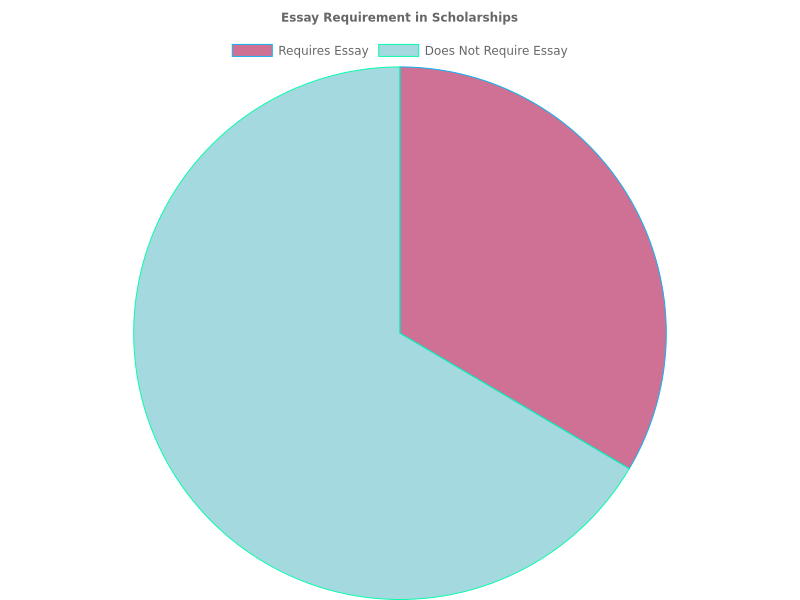
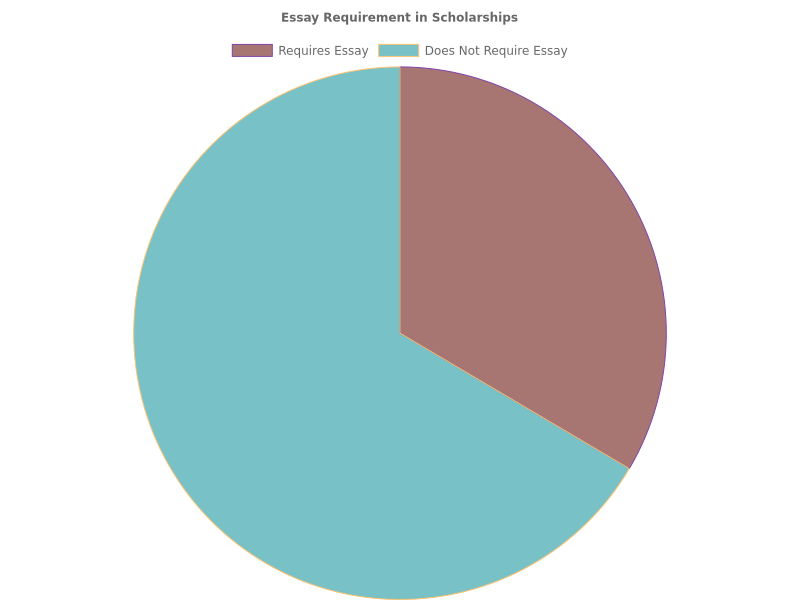
Sync

diff --git a/parseData.js b/parseData.js
@@ -15,11 +15,10 @@ const getRandomColors = require('./modules/getRandomColors');
     const letterRequiredPercentage = total > 0 ? ((letterRequiredCount / total) * 100).toFixed(2) : 0;
     const bothRequiredCount = scholarships.filter(s => s.requiresEssay && s.requiresLetter).length;
     const bothRequiredPercentage = total > 0 ? ((bothRequiredCount / total) * 100).toFixed(2) : 0;
-    console.log(`Percentage of scholarships that require a letter of recommendation: ${letterRequiredPercentage}%`);
-    console.log(`Percentage of scholarships that require both an essay and a letter of recommendation: ${bothRequiredPercentage}%`);
+    console.log(`Total number of scholarships: ${total}\n`);
 
     const categories = [
-      { type: 'Black', keywords: ['african american', 'black', 'minority', 'diversity'] },
+      { type: 'African Americans', keywords: ['african american', 'black', 'minority', 'diversity'] },
       { type: 'Women', keywords: ['women only', 'for women', 'female', 'women'] },
       { type: 'LGBT', keywords: ['lgbtqia', 'lgbtq+', 'lgbt', 'lgbtq'] },
       { type: 'Veterans', keywords: ['veteran', 'military', 'armed forces'] },
@@ -77,7 +76,7 @@ const getRandomColors = require('./modules/getRandomColors');
       };
     });
     output.forEach(category => {
-      console.log(`${category.type}: ${category.percentage}% of scholarships (${category.count} total), ${category.needBasedPercentage}% need-based`);
+      console.log(`For ${category.type}: ${category.percentage}% of scholarships (${category.count} total), ${category.needBasedPercentage}% need-based`);
     });
     console.log(`\nOverall Need-Based Scholarships: ${overallNeedBasedPercentage}% of all scholarships (${overallNeedBasedCount} out of ${total})`);
     const width = 800;
@@ -182,6 +181,40 @@ const getRandomColors = require('./modules/getRandomColors');
     } else {
       console.log('No valid scholarshipMaximumAward values to generate histogram.');
     }
+    const essayRequiredScholarships = scholarships.filter(s => s.requiresEssay);
+    const essayRequiredCount = essayRequiredScholarships.length;
+    const essayRequiredPercentage = total > 0 ? ((essayRequiredCount / total) * 100).toFixed(2) : 0;
+    const labelsEssay = ['Requires Essay', 'Does Not Require Essay'];
+    const backgroundColorsEssay = getRandomColors(labelsEssay.length, 0.6);
+    const borderColorsEssay = getRandomColors(labelsEssay.length, 1);
+    const configEssay = {
+      type: 'pie',
+      data: {
+        labels: labelsEssay,
+        datasets: [{
+          label: 'Essay Requirement',
+          data: [essayRequiredCount, total - essayRequiredCount],
+          backgroundColor: backgroundColorsEssay,
+          borderColor: borderColorsEssay,
+          borderWidth: 1
+        }]
+      },
+      options: {
+        plugins: {
+          title: { display: true, text: 'Essay Requirement in Scholarships' }
+        }
+      }
+    };
+    const imageBufferEssay = await chartJSNodeCanvas.renderToBuffer(configEssay);
+    fs.writeFileSync('./images/essay_requirement_pie_chart.png', imageBufferEssay);
+    const onlyEssayScholarships = scholarships.filter(s => s.requiresEssay && !s.requiresLetter);
+    const onlyEssayCount = onlyEssayScholarships.length;
+    const onlyEssayPercentage = total > 0 ? ((onlyEssayCount / total) * 100).toFixed(2) : 0;
+    console.log(`Percentage of scholarships that only require an essay: ${onlyEssayPercentage}%`);
+
+    console.log(`Percentage of scholarships that require a letter of recommendation: ${letterRequiredPercentage}%`);
+    console.log(`Percentage of scholarships that require both an essay and a letter of recommendation: ${bothRequiredPercentage}%\n`);
+
   } catch (error) {
     console.error(error);
   }

diff --git a/README.md b/README.md
@@ -18,6 +18,8 @@ Other: 86.05% of scholarships (8605 total), 37.02% need-based
 
 Overall Need-Based Scholarships: 37.40% of all scholarships (3740 out of 10000)
 Average Scholarship Maximum Award: $2914
-Percentage of scholarships that require an essay: 33.49%
+
+Percentage of scholarships that require a letter of recommendation: 19.54%
+Percentage of scholarships that require both an essay and a letter of recommendation: 13.72%
 ``` 
 
